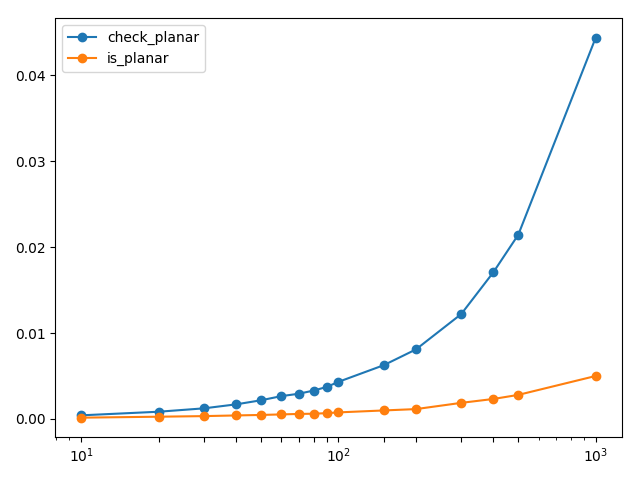
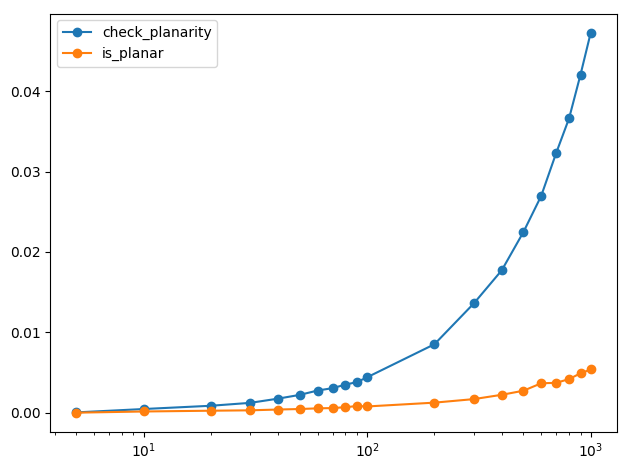
mod: minor

Changed region(s): [[0.0, 0.0298, 0.9952, 0.983], [0.3016, 0.1191, 0.3317, 0.1489]]

diff --git a/src/is_planar.py b/src/is_planar.py
@@ -1,7 +1,6 @@
 from collections import defaultdict
 from itertools import islice
 from fringe import fringe
-import networkx as nx
 
 __all__ = ['is_planar']
 
@@ -17,7 +16,7 @@ def is_planar(g):
     g : networkx.Graph
         A simple undirected graph of NetworkX.
 
-        If g has four methods size(), order(), v in g, and g[v], then
+        If g has four methods size(), order(), nodes(), and g[v], then
         is_planar does not require NetworkX.
 
             1. size() : returns the number of edges as int

diff --git a/misc/vs_check_planarity.py b/misc/vs_check_planarity.py
@@ -1,7 +1,6 @@
 import time
 import networkx as nx
 from matplotlib import pyplot as plt
-from matplotlib.ticker import ScalarFormatter
 from networkx.algorithms.planarity import check_planarity
 from is_planar import is_planar
 

diff --git a/README.md b/README.md
@@ -38,7 +38,7 @@ the code metrics evaluation tool.
 - **is_planar** have been tested by **all connected simple graphs** up to 10
 vertices, and passed. The graph data are borrowed from
 [Combinatorial Data](https://users.cecs.anu.edu.au/~bdm/data/graphs.html).
-We use [pynauty](https://web.cs.dal.ca/~peter/software/pynauty/html/)
+We would use [pynauty](https://web.cs.dal.ca/~peter/software/pynauty/html/)
 for constructing a cheet sheet of planar graphs.
 
 - **is_planar** is faster than check_planarity of NetworkX if the purpose is
@@ -48,7 +48,6 @@ subgraphs.
 
 However, is_planar have tiny advantages, see misc/vs_check_planarity.py.
 ![vs_check_planarity](https://github.com/satemochi/is_planar/blob/master/misc/vs_check_planarity_1.png "log: on April 7th, 2019.")
-
 Log-scale! Cheating!? :-p
 
 ## Requirements
